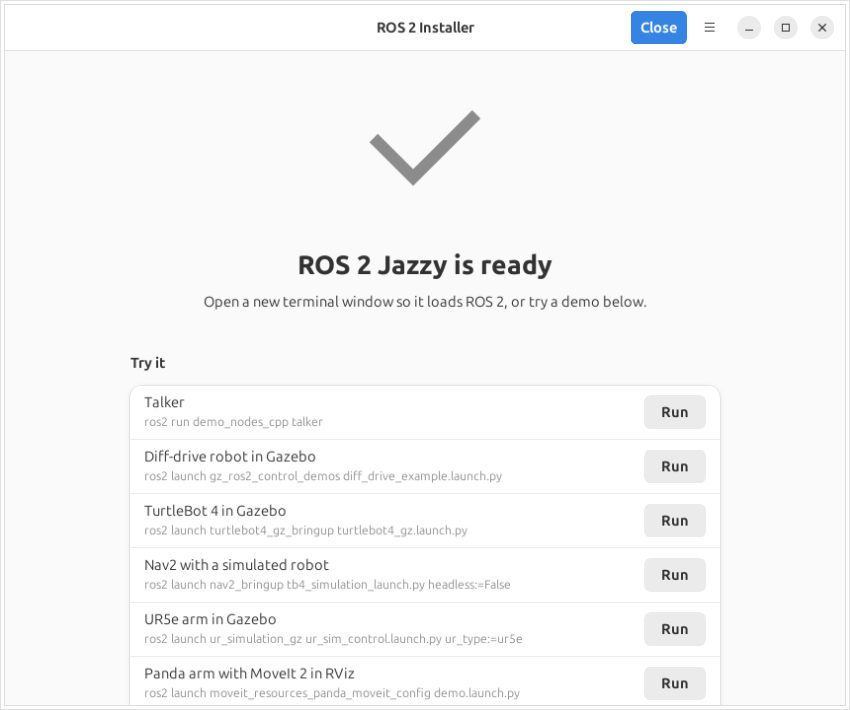
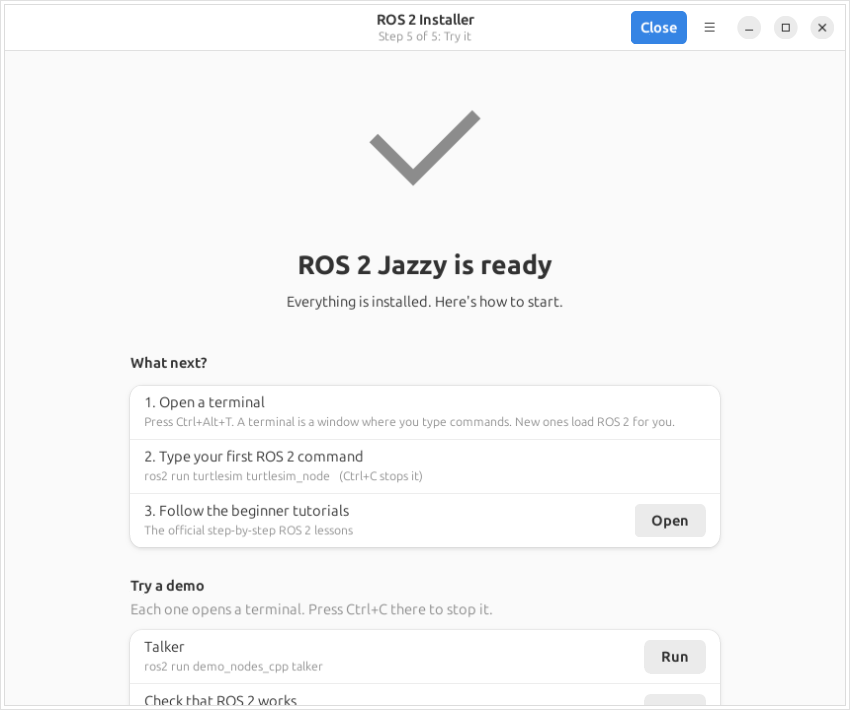
README: retake screenshots for 0.1.6
Same setup as before (fresh Ubuntu 24.04 container, real apt data), now with
lspci so the system check shows the real graphics card.

diff --git a/README.md b/README.md
@@ -89,12 +89,12 @@ The window title always shows where you are, for example *Step 2 of 5: Choose wh
 
 | | |
 |---|---|
-| <img src="docs/screenshots/1-system-check.png" width="400" alt="System check"><br>**1. System check** | <img src="docs/screenshots/2-choose.png" width="400" alt="Choose page with updates and ROS 2 itself"><br>**2. Choose:** updates and ROS 2 itself |
+| <img src="docs/screenshots/1-system-check.png" width="400" alt="System check"><br>**1. System check** | <img src="docs/screenshots/2-choose.png" width="400" alt="Choose page: ROS 2 itself, with a hint for beginners"><br>**2. Choose:** ROS 2 itself, with a hint for beginners |
 | <img src="docs/screenshots/3-categories.png" width="400" alt="Categories with tick boxes"><br>**Tick categories** | <img src="docs/screenshots/4-whats-included.png" width="400" alt="Info popover listing packages"><br>**ⓘ What's included** |
 | <img src="docs/screenshots/5-individual-packages.png" width="400" alt="Searching individual packages"><br>**Individual packages** | <img src="docs/screenshots/6-review.png" width="400" alt="Review with package count and download size"><br>**3. Review** |
-| <img src="docs/screenshots/7-install.png" width="400" alt="Install progress bar"><br>**4. Install** | <img src="docs/screenshots/8-try-it.png" width="400" alt="Try it page with demo buttons"><br>**5. Try it** |
+| <img src="docs/screenshots/7-install.png" width="400" alt="Install progress bar"><br>**4. Install** | <img src="docs/screenshots/8-try-it.png" width="400" alt="Last page: What next and demo buttons"><br>**5. Try it:** what next, and demos |
 
-Screenshots are from a fresh Ubuntu 24.04 with ROS 2 Jazzy. The colours follow your desktop's theme.
+Screenshots are from version 0.1.6 on a fresh Ubuntu 24.04 with ROS 2 Jazzy. The colours follow your desktop's theme.
 
 ## What you can install
 
